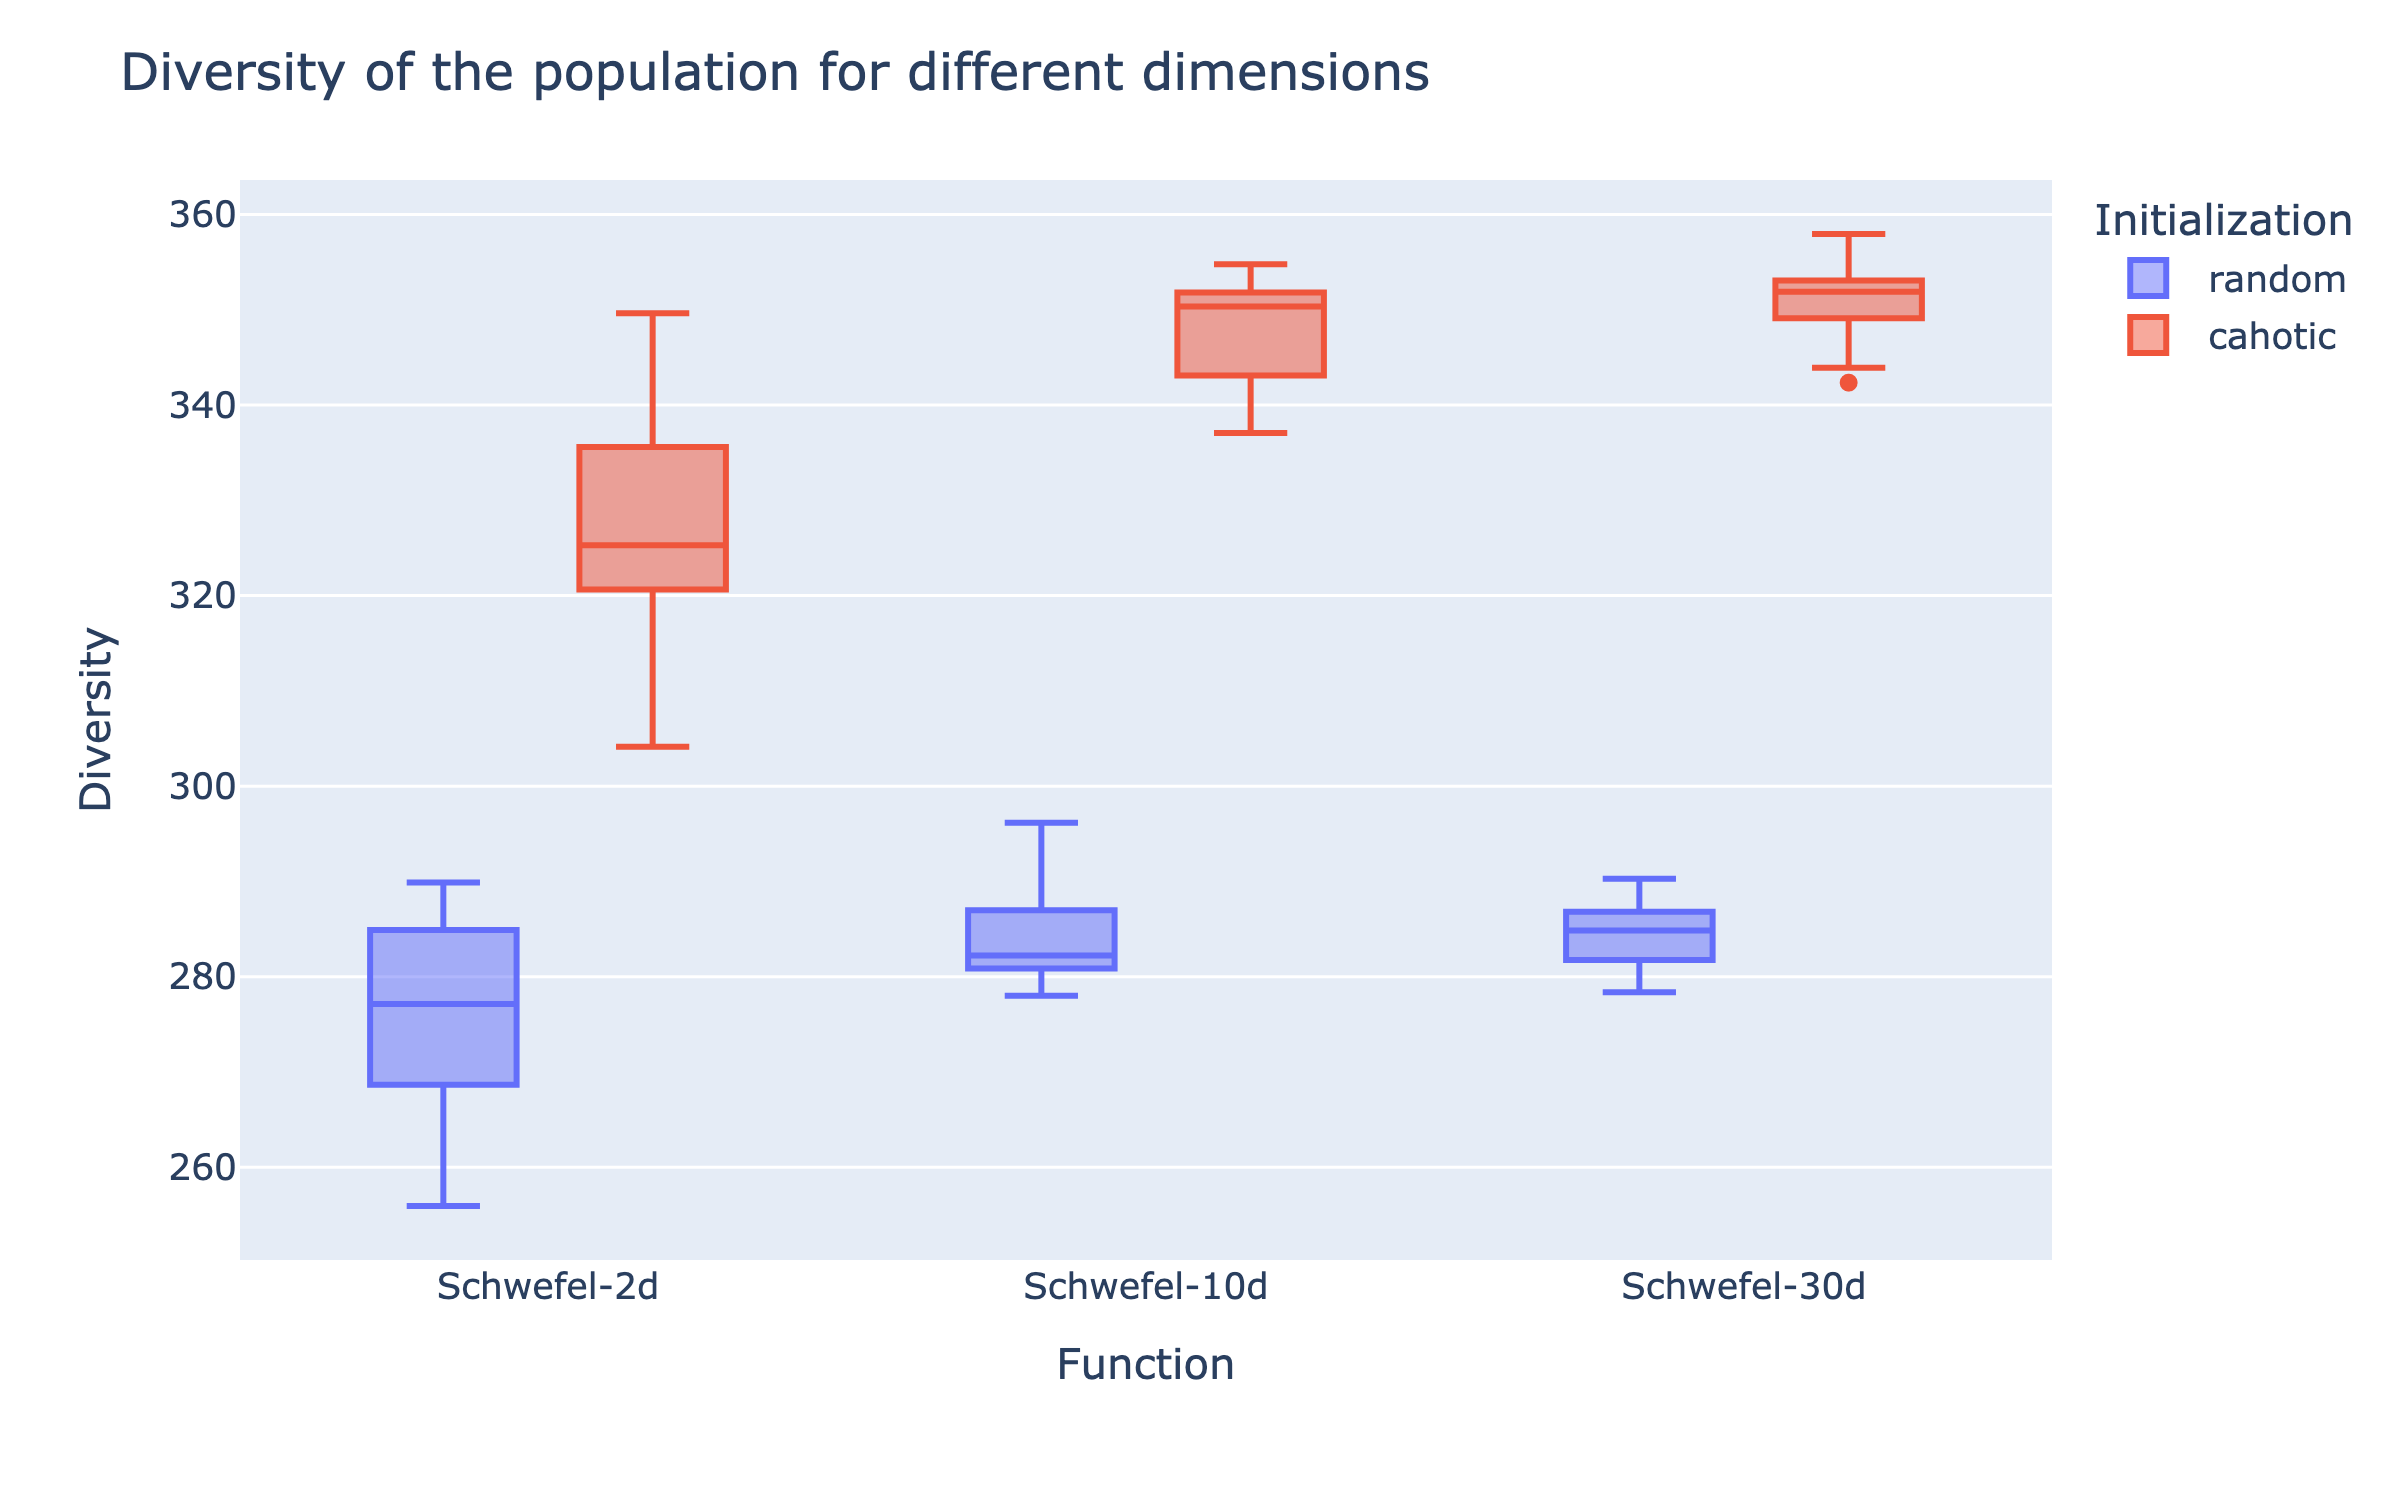
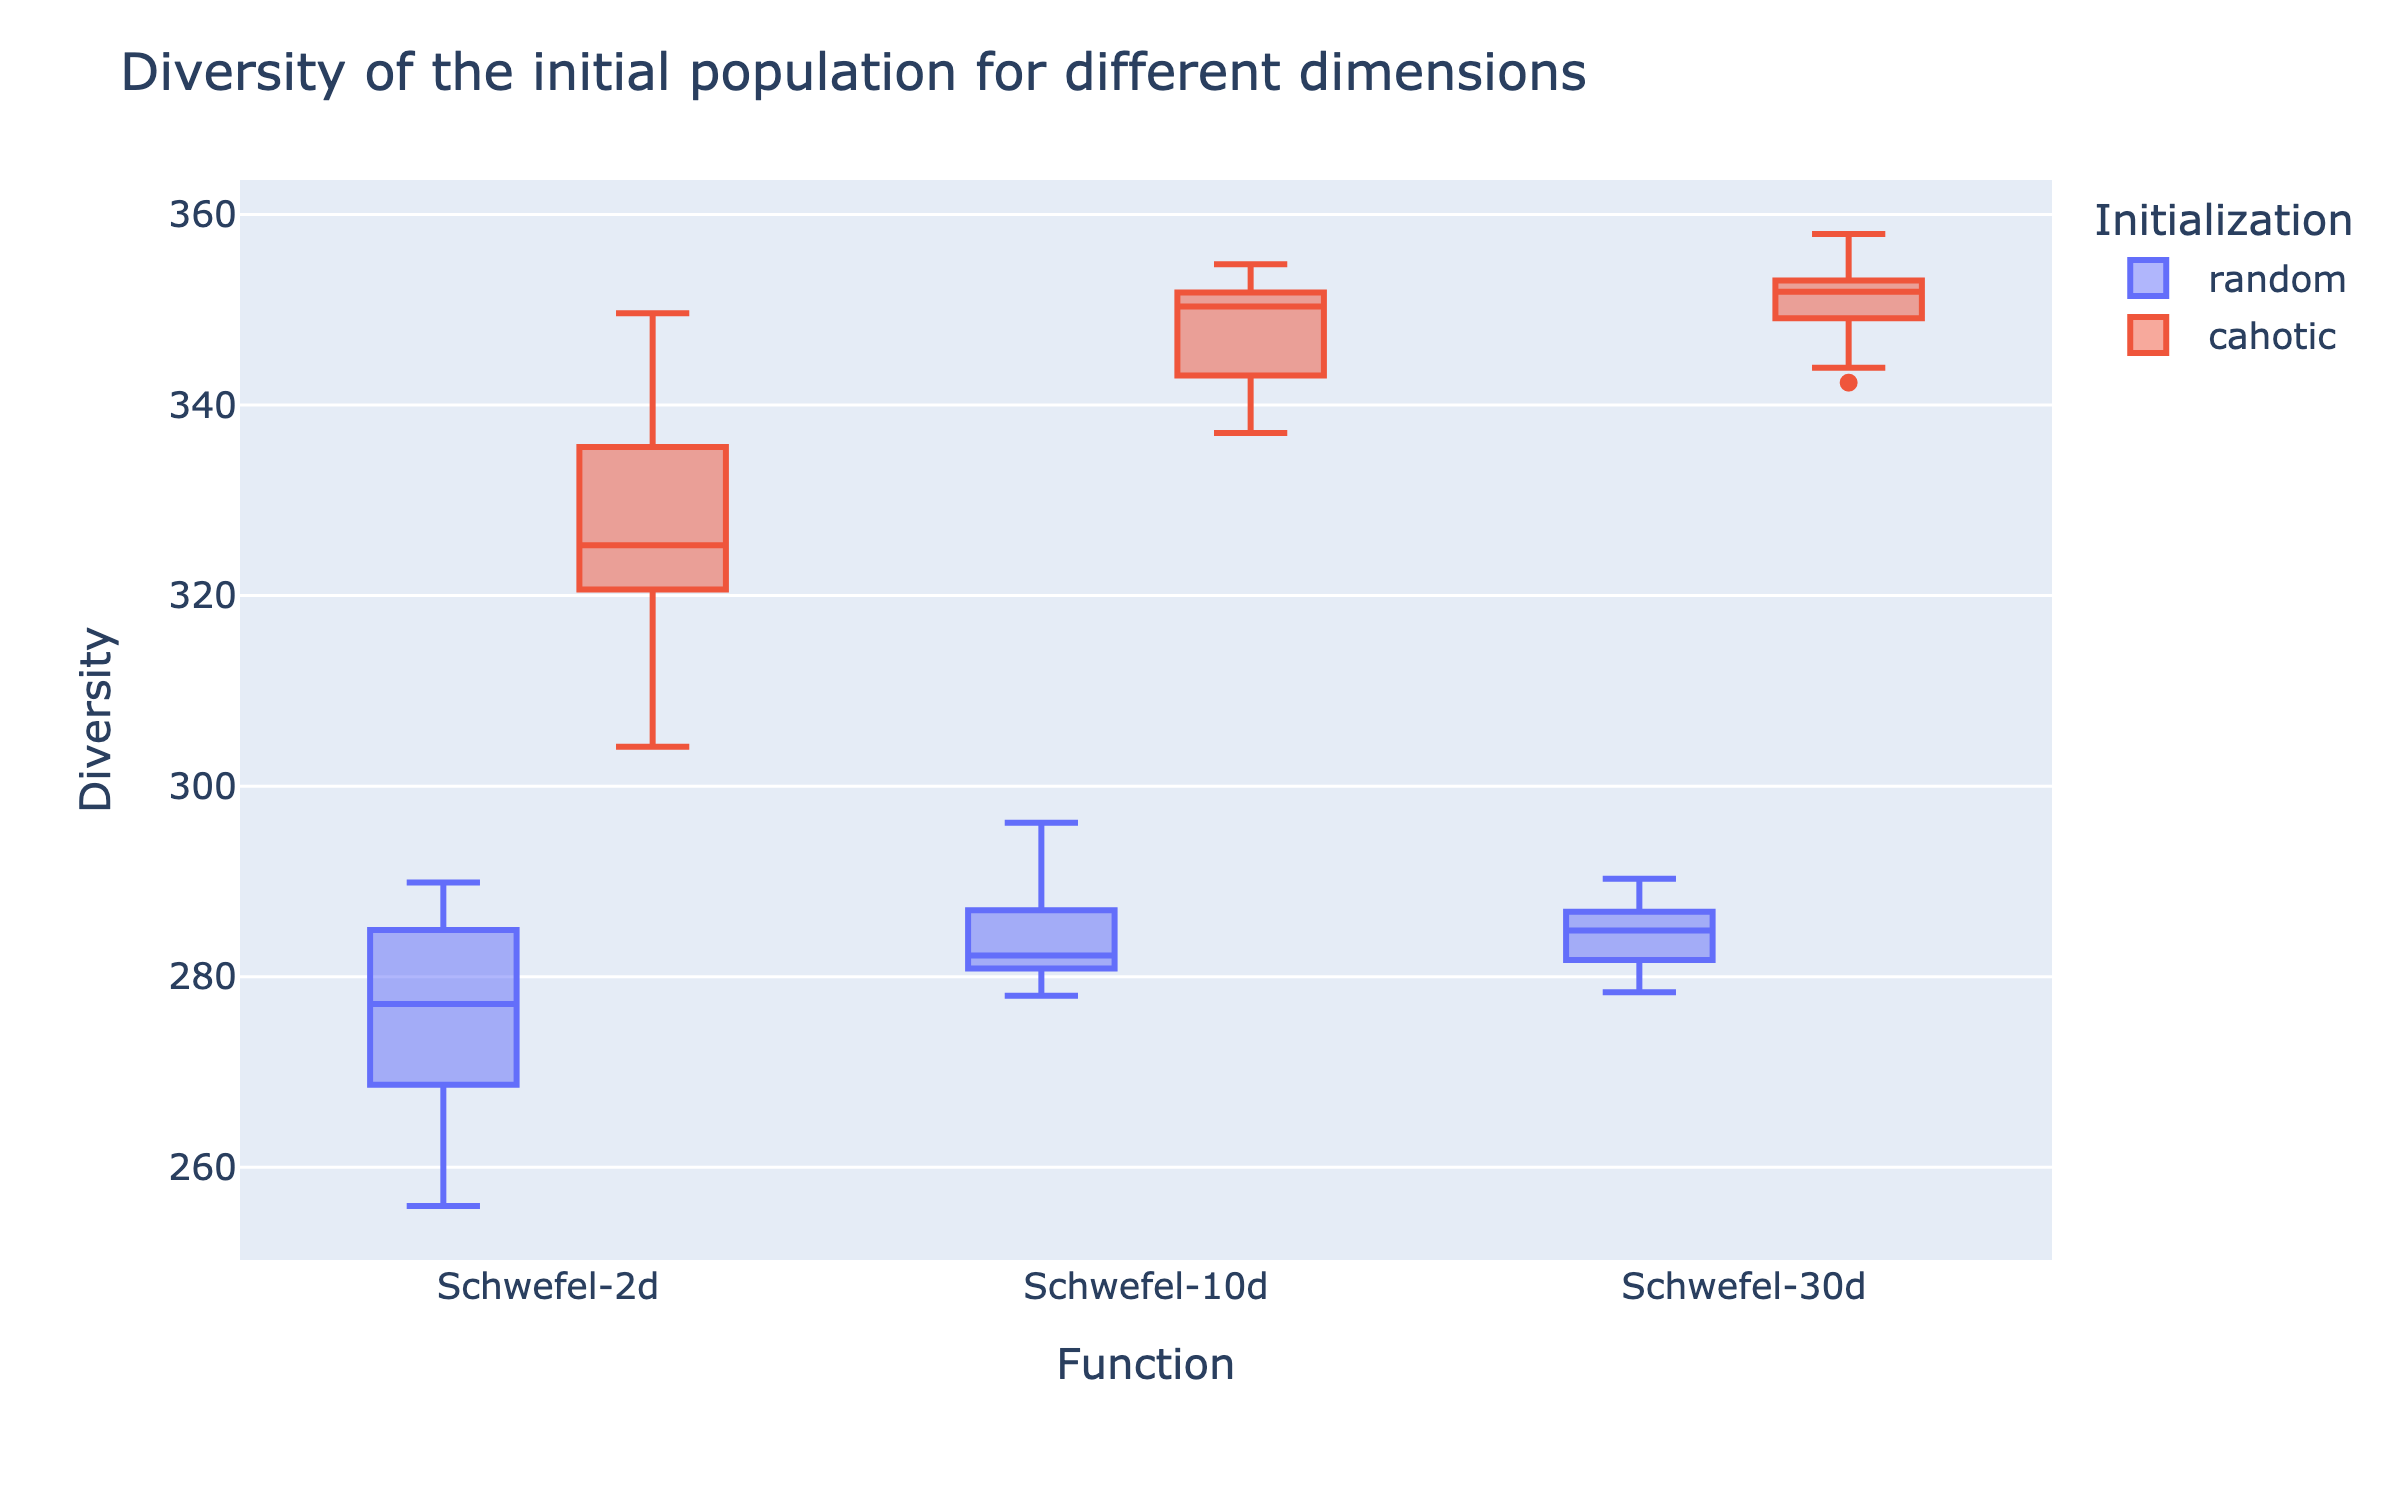
Fixed title of diversity plots

Changed region(s): [[0.2188, 0.0307, 0.6562, 0.0613]]

diff --git a/analysis/analysis_diversity.py b/analysis/analysis_diversity.py
@@ -24,7 +24,7 @@ if __name__=="__main__":
         current_functions = [f"{function_name}-{dim}d" for dim in DIMS]
         current_df = diversity_df[diversity_df['Function'].isin(current_functions)]
         fig = px.box(current_df, x="Function", y="Diversity",color='Initialization')
-        fig.update_layout(title='Diversity of the population for different dimensions',
+        fig.update_layout(title='Diversity of the initial population for different dimensions',
                           width=800,height=500
                           )
         fig.write_image(f'{IMG_PATH}{function_name}.png',scale=3)
